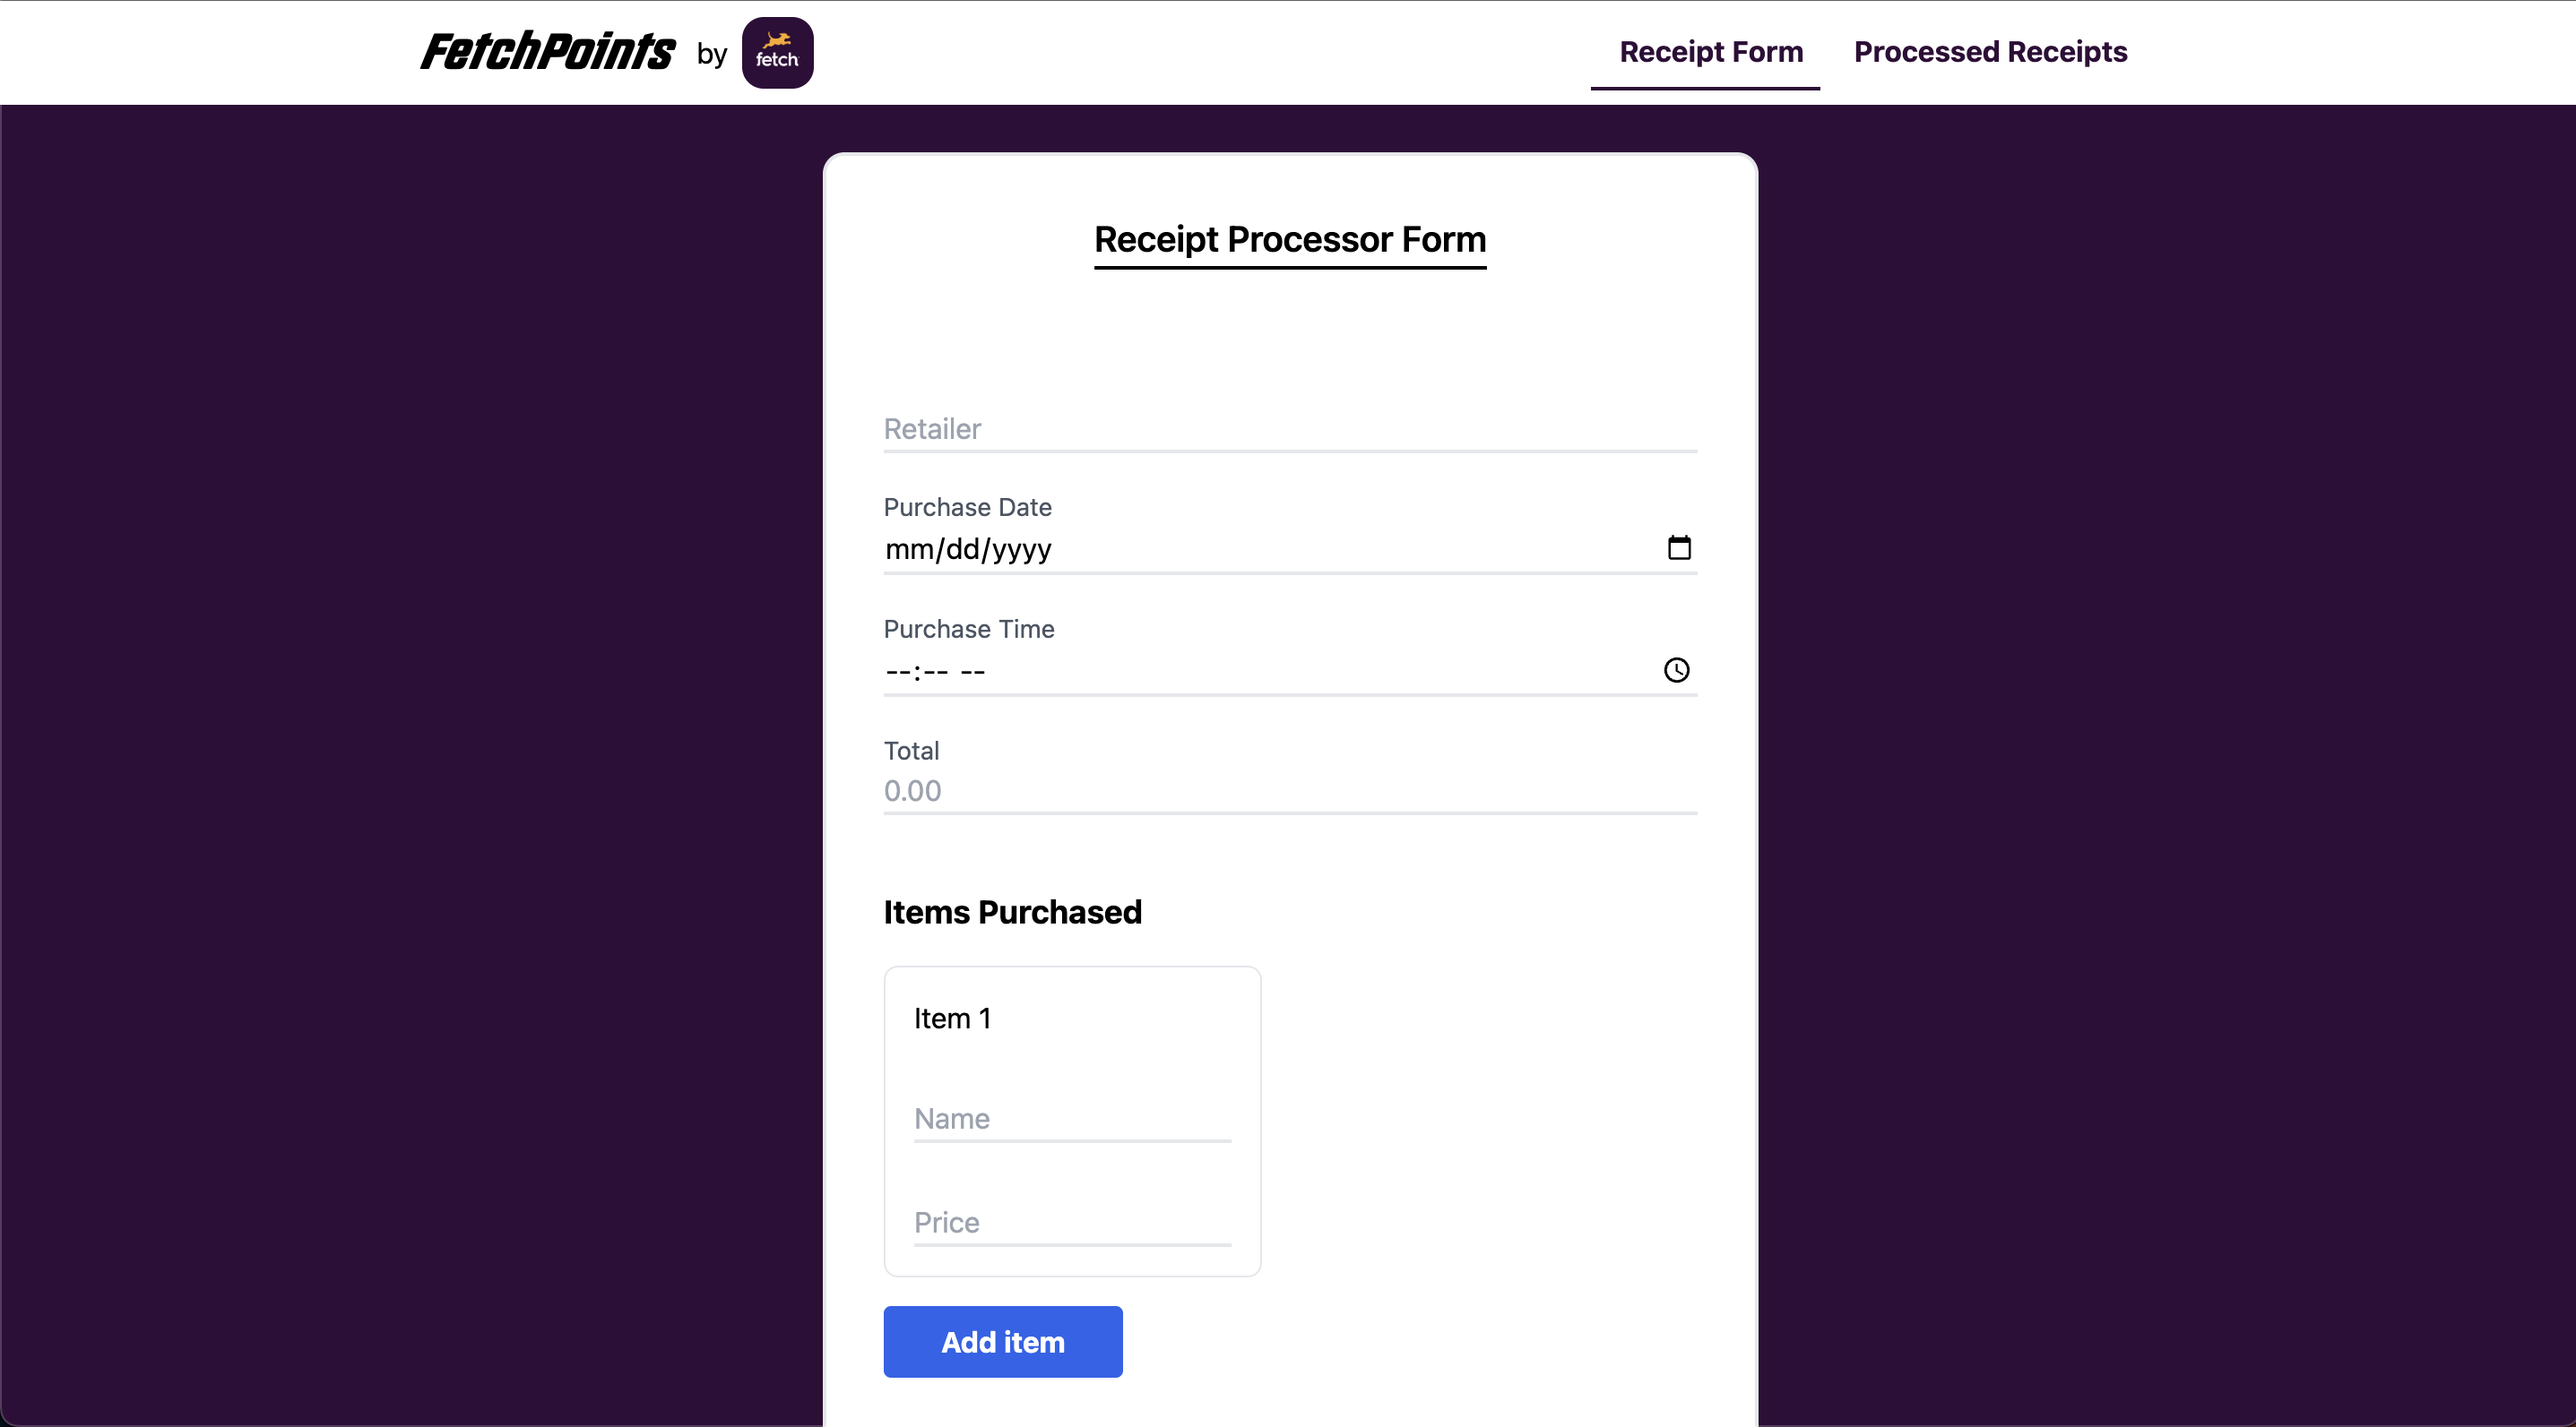
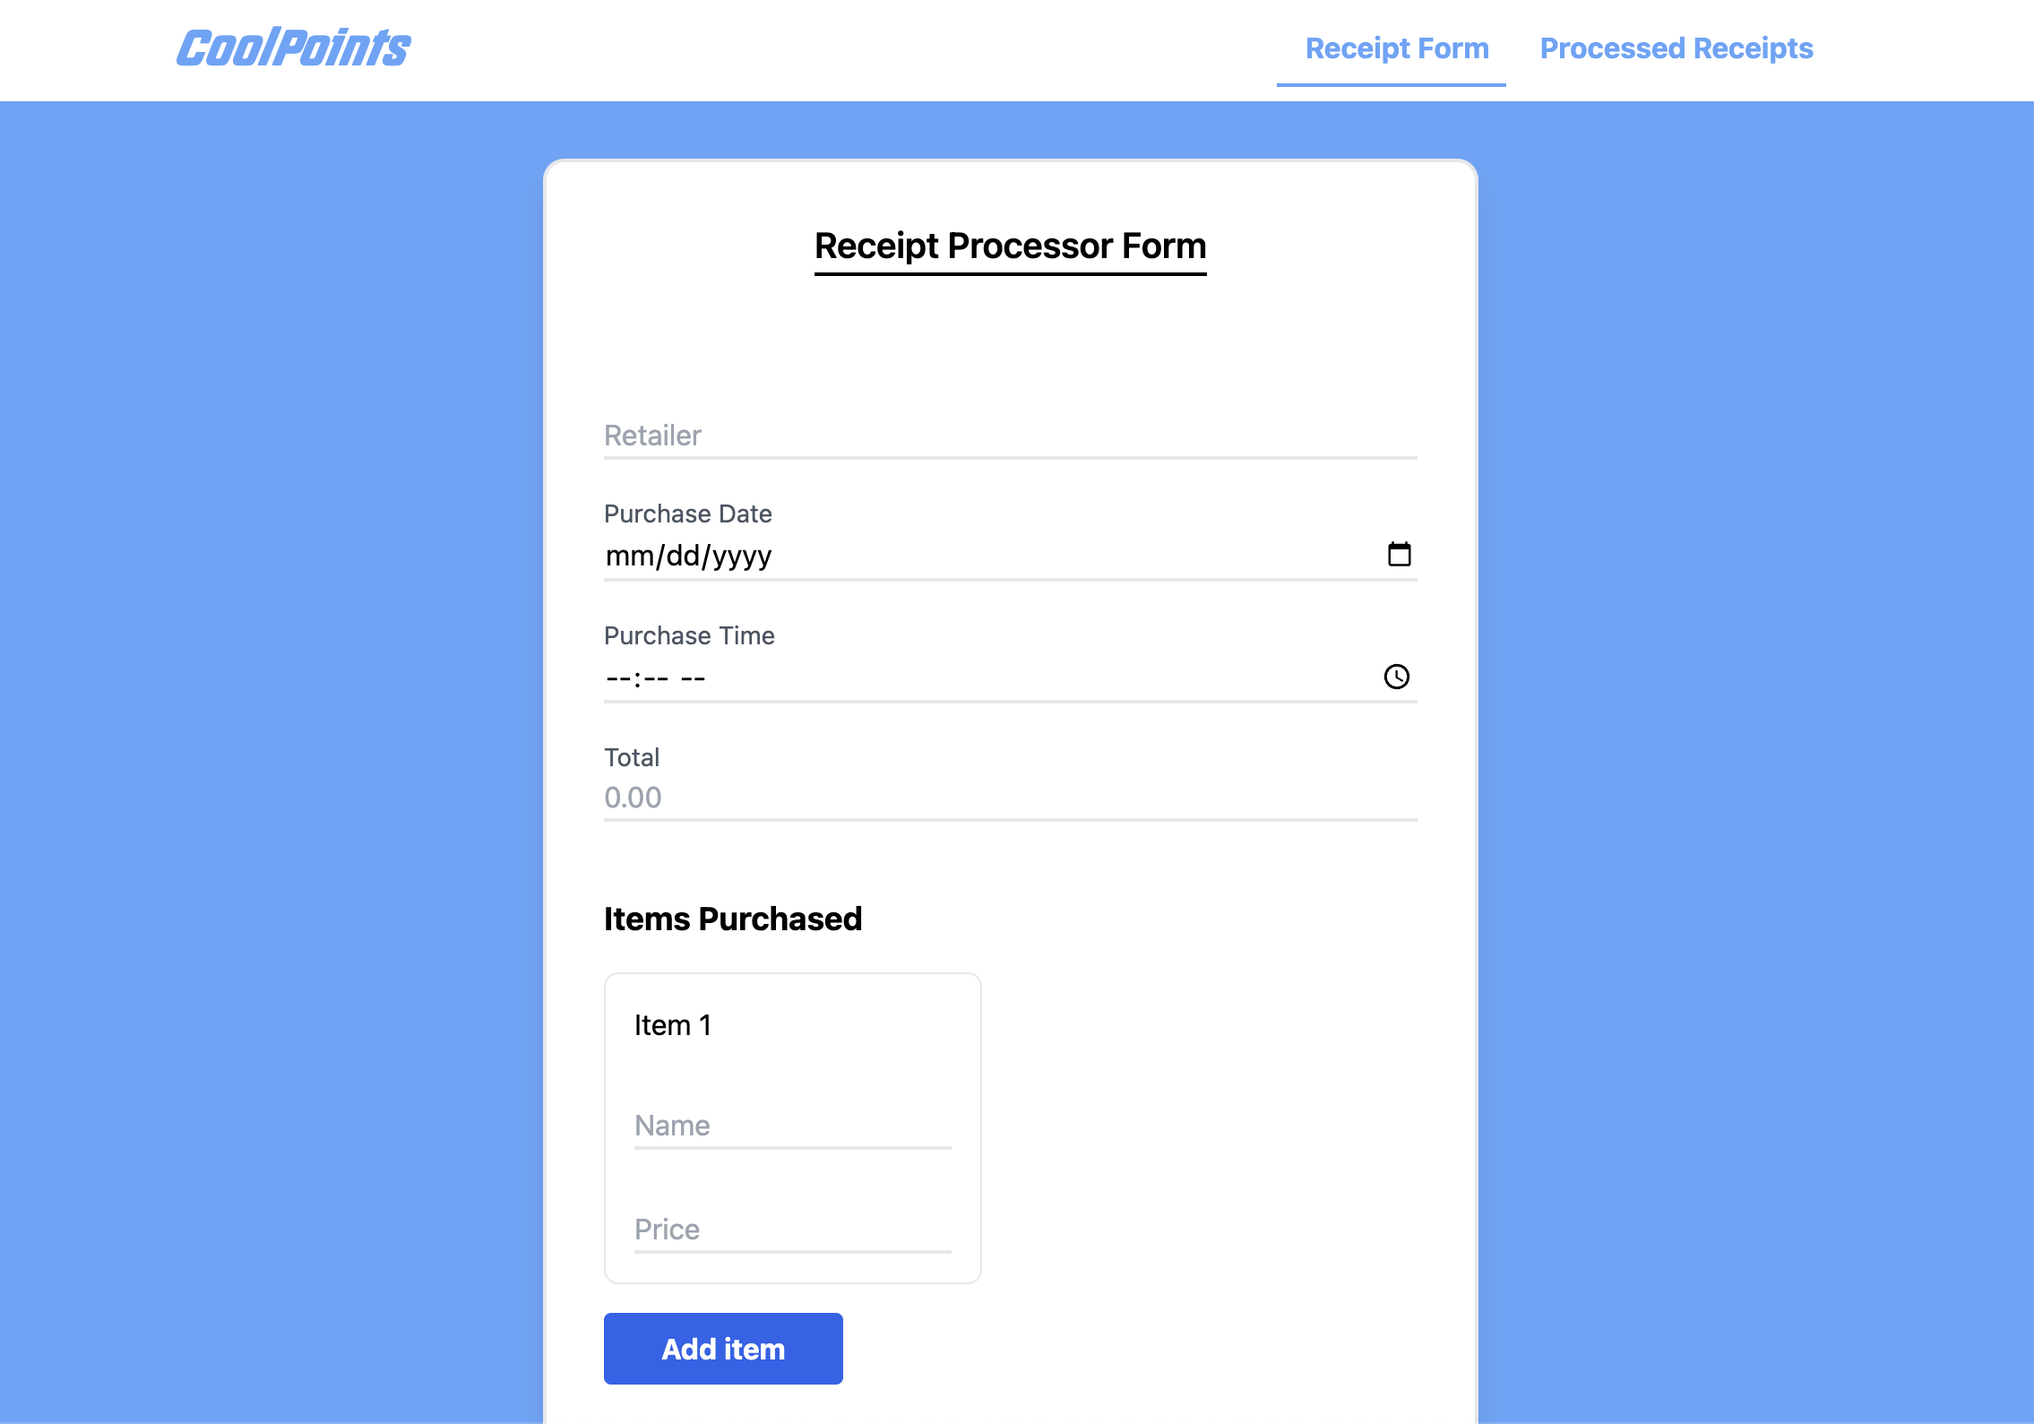
initial

diff --git a/src/components/Nav.jsx b/src/components/Nav.jsx
@@ -1,6 +1,5 @@
 import React from "react";
 import { Link, useLocation } from "react-router-dom";
-import logo from "../assets/fetch-logo.png";
 
 const Nav = () => {
   const location = useLocation();
@@ -8,25 +7,20 @@ const Nav = () => {
   return (
     <nav className="flex items-center justify-around w-full bg-white py-2 px-4">
       <div className="flex items-center space-x-4">
-        <h1 className="text-3xl fastup ">FetchPoints </h1>
-        <div className="flex items-center space-x-2">
-          <p>by</p>
-          <div className="bg-[#300d38] self-center rounded-xl p-2 w-10 h-10">
-            <img alt="Fetch Logo" src={logo} />
-          </div>
-        </div>
+        <h1 className="text-3xl fastup text-blue-400">CoolPoints </h1>
+        <div className="flex items-center space-x-2"></div>
       </div>
       <div className="flex flex-col">
         <div className="flex">
           <Link
             to={"/"}
-            className="text-[#300d38] px-4 py-2 font-bold hover:opacity-50"
+            className="text-blue-400 px-4 py-2 font-bold hover:opacity-50"
           >
             Receipt Form
           </Link>
           <Link
             to={"/receipts"}
-            className="text-[#300d38] px-4 py-2 font-bold hover:opacity-50 -translate-x-1"
+            className="text-blue-400 px-4 py-2 font-bold hover:opacity-50 -translate-x-1"
           >
             Processed Receipts
           </Link>
@@ -34,11 +28,11 @@ const Nav = () => {
         <div className="">
           {location.pathname === "/" ? (
             <div
-              className={`border-b-2 border-[#300d38] transition translate-x-0 w-[8rem]`}
+              className={`border-b-2 border-blue-400 transition translate-x-0 w-[8rem]`}
             ></div>
           ) : (
             <div
-              className={`border-b-2 border-[#300d38] transition translate-x-36 w-[10rem]`}
+              className={`border-b-2 border-blue-400 transition translate-x-36 w-[10rem]`}
             ></div>
           )}
         </div>

diff --git a/src/pages/Receipts/Receipts.jsx b/src/pages/Receipts/Receipts.jsx
@@ -21,7 +21,7 @@ const Receipts = () => {
 
   const [receipts, setReceipts] = useState([]);
   return (
-    <main className="flex justify-center bg-[#300d38] py-8 px-4 flex-1">
+    <main className="flex justify-center bg-blue-400 py-8 px-4 flex-1">
       <section className="flex flex-col bg-white w-full max-w-[36rem] rounded-xl p-4 overflow-auto hidescrollbar max-h-[42rem]">
         <div className="flex justify-center w-full pb-8">
           <h2 className="font-bold text-xl self-center max-h-full border-b-2 border-black">

diff --git a/src/pages/Home/Home.jsx b/src/pages/Home/Home.jsx
@@ -7,7 +7,7 @@ const Home = () => {
   const [showModal, setShowModal] = useState(false);
   const [error, setError] = useState(false);
   return (
-    <main className="relative h-full flex flex-col items-center bg-[#300d38] pb-8 hidescrollbar overflow-auto">
+    <main className="relative h-full flex flex-col items-center bg-blue-400 pb-8 hidescrollbar overflow-auto">
       <div className="px-4">
         <Form setShowModal={setShowModal} setError={setError} />
       </div>

diff --git a/src/pages/Home/Header.jsx b/src/pages/Home/Header.jsx
@@ -4,7 +4,7 @@ import logo from "../../assets/fetch-logo.png";
 const Header = () => {
   return (
     <header className="flex flex-col items-center w-full bg-white py-4">
-      <h1 className="text-4xl fastup ">FetchPoints </h1>
+      <h1 className="text-4xl fastup ">CoolPoints </h1>
       <div className="flex items-center space-x-2">
         <p>by</p>
         <div className="bg-[#300d38] self-center rounded-xl p-2 w-10 h-10">

diff --git a/src/components/Breakdown.jsx b/src/components/Breakdown.jsx
@@ -28,7 +28,7 @@ export const Breakdown = ({ points, breakdown }) => {
         </div>
 
         <div className="flex space-x-2 items-center">
-          <span className="font-bold fastup text-lg">FetchPoints: </span>
+          <span className="font-bold fastup text-lg">CoolPoints: </span>
           <span>{points}</span>
         </div>
       </div>

diff --git a/README.md b/README.md
@@ -1,6 +1,6 @@
-# BONUS Receipt Processor Front-end
+# Receipt Processor Front-end
 
-Hey Fetch Rewards Team! Welcome to Receipt Processor Frontend. This project was built with Docker and React and beuatifully styled with the TailwindCSS library. I styled it based on the of Fetch Rewards!
+Hey Launch Scout Team! Welcome to Receipt Processor Frontend. This project was built with Docker and React and beautifully styled with the TailwindCSS library.
 
 ## Getting Started
 
@@ -8,14 +8,14 @@ These instructions will get you a copy of the project up and running on your loc
 
 ### Prerequisites
 
-There are no prequisites for thus project since Docker is installed on Fetch Rewards systems.
+The only prerequisite is to have Docker installed on your machine.
 
 ### Instatlling
 
 1. Clone the repository to your local machine using Git:
 
 ```
-git clone https://github.com/jayastronomic/fetch-frontend-bonus.git
+git clone https://github.com/jayastronomic/launch-scout-project-client
 ```
 
 2. Install the project dependencies by running the following command in the project's root directory:
@@ -32,13 +32,11 @@ This command will build the docker image and run the cointaner for this project.
 
 <img src="./src/assets/home.png" class="width: 12rem;"/>
 
-Here is a form for you to fill out to add receipt information. It takes all of the information and processes the points you get for each submission. To see the points you get for each receipt, click the link called "Processed Receipts". The link takes you to a page to see all of the receipt information that has been processed by the backend. You will alsosee the acquired points for each receipt based on the rules of the challenge:
+Here is a form for you to fill out to add receipt information. It takes all of the information and processes the points you get for each submission. To see the points you get for each receipt, click the link called "Processed Receipts". The link takes you to a page to see all of the receipt information that has been processed by the backend. You will also see the acquired points for each receipt based on the rules of the backend.
 
 [Receipt Information](./src/assets/info.png)
 
 <img src="./src/assets/info.png" class="width: 12rem;"/>
-
-Cool, right? I figured it'll be nice for you guys to see it in action in a more interactive way. I hope you guys enjoyed looking at my submission for this challenge and the bonus as well!
 
 ## Authors
 
